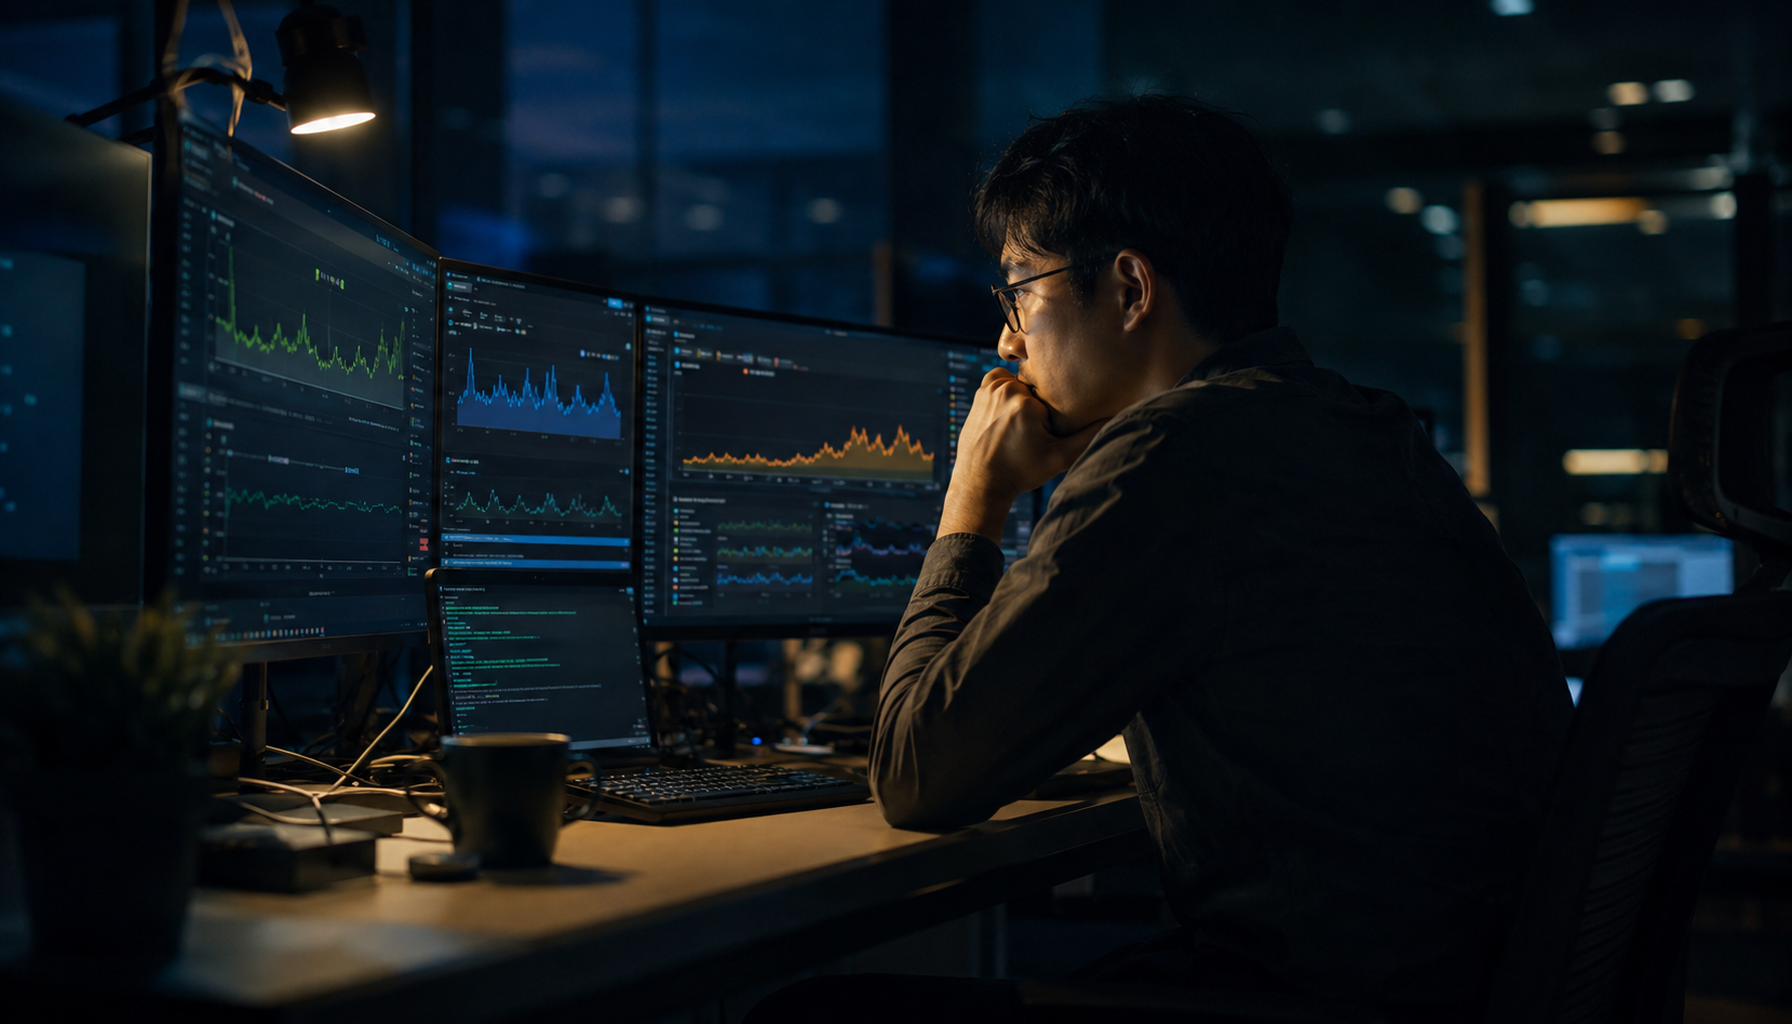
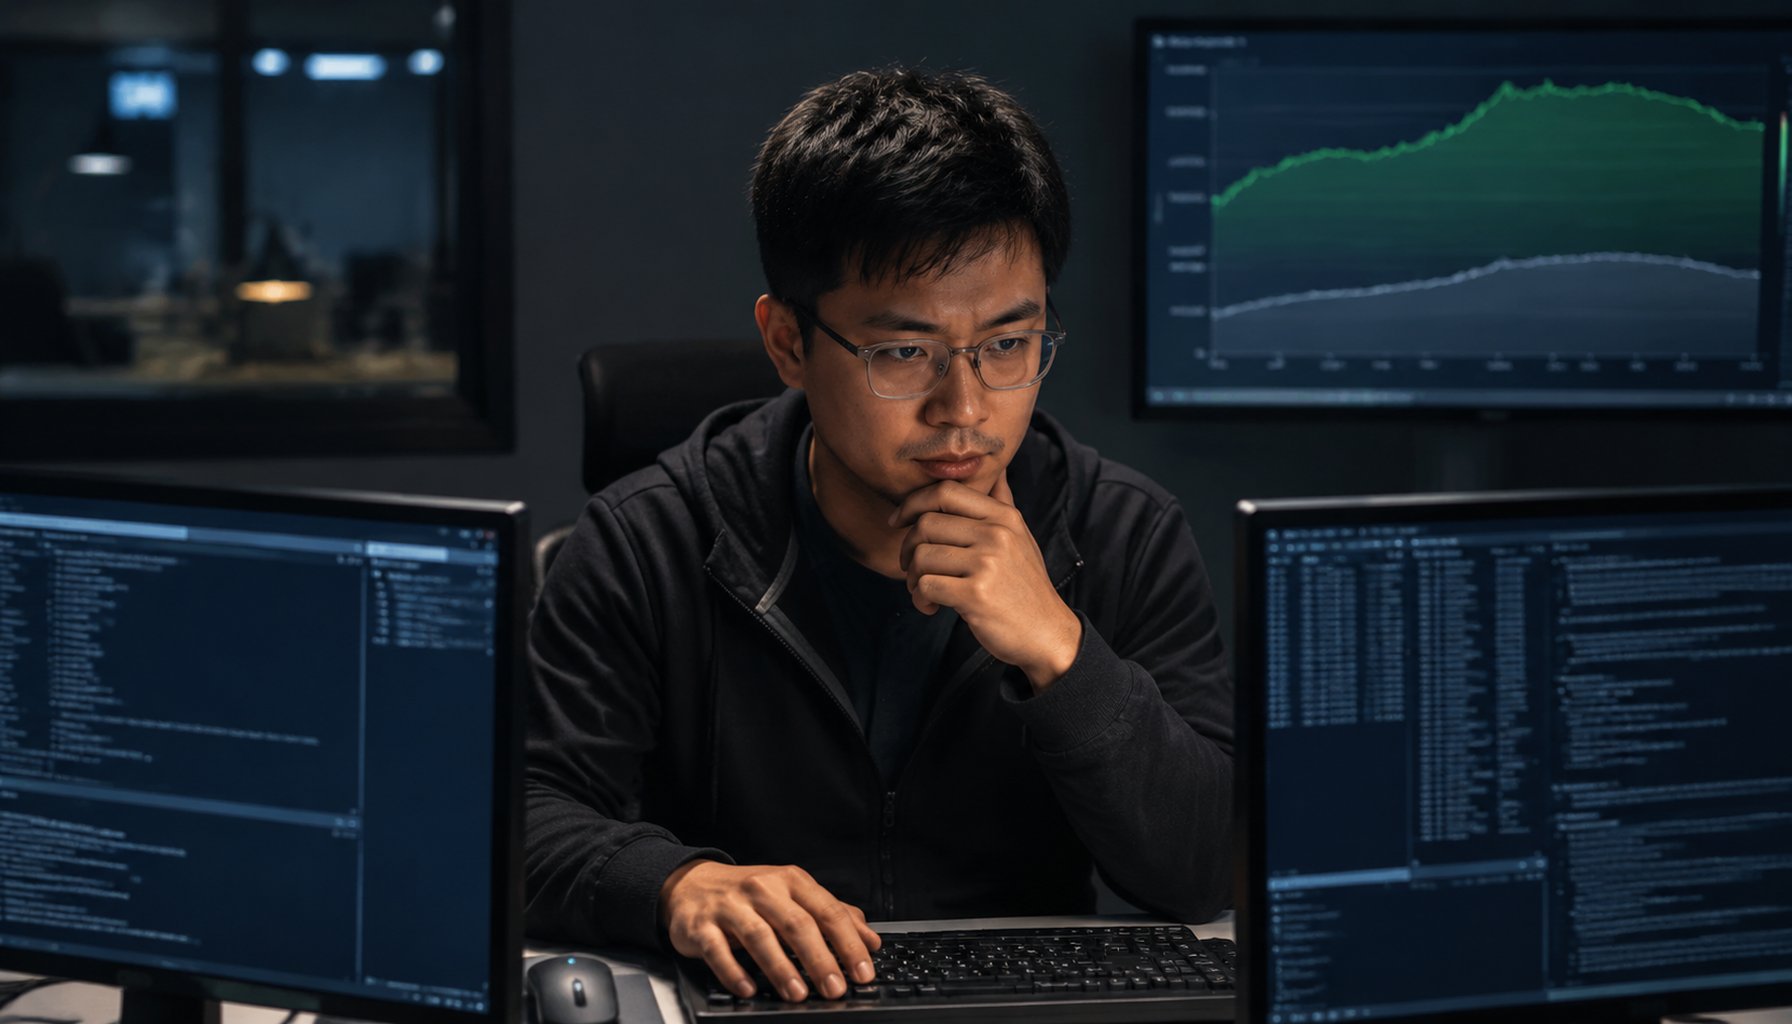
docs(blog): refine Green Tea GC decision

diff --git a/content/posts/go-green-tea-gc-decision.md b/content/posts/go-green-tea-gc-decision.md
@@ -1,98 +1,80 @@
 ---
 title: "同事甩 10–40% 截图让你升 Go 1.26？先量自己的 GC 占比"
-description: "官方 10–40% 说的是 GC 自己的开销，不是业务整体提速。先量自己的 GC CPU 占比，再决定跟版本、A/B 对比，还是临时关掉 Green Tea。"
+description: "官方 10–40% 说的是 GC 自身的 CPU 消耗。先量 GC 占总 CPU 的比例，再决定正常升级、做 A/B，还是临时关闭 Green Tea。"
 date: 2026-07-17T02:40:00+08:00
 draft: false
 author: "Zampo"
 tags: ["Go", "Go 1.26", "Green Tea GC", "GC", "性能", "工程决策"]
 categories: ["技术实战"]
-cover: "/images/go-green-tea-gc-decision/cover.svg"
+cover: "/images/go-green-tea-gc-decision/cover.png"
 toc: true
 ---
 
-值班群里有人甩了张截图。Go 官方说 Green Tea 能把 GC 开销砍 10–40%。
+值班群里有人贴了 Go 官方的截图：Green Tea 能把 GC 开销降 10–40%。
 
-有人已经在催：下周升 1.26，业务应该快一截。
+下一句往往是：那下周就升 1.26，服务应该能快不少。
 
-你盯着监控里 GC CPU 那条曲线——几个点的占比，不高不低——犹豫要不要为它改构建参数。
+我会先去看一条监控：GC CPU 在总 CPU 里占多少。没有这个数，截图再漂亮，也不能替你做性能判断。
 
-我最想纠正的误判就这一句：**版本说明写了 10–40%，所以升上就稳赚。**
+**网上的 10–40% 说的是 GC 自己的 CPU，不是你的服务；先量自己的 GC 占比，再决定要不要为 Green Tea 做 A/B。**
 
-## 10–40% 是 GC 自己的 CPU，不是你服务的
+## 先把 10–40% 的分母说清
 
-官方博客写得很清楚：对 GC 压力很重的真实程序，GC 开销大约降 10–40%。很多程序落在 10% 附近，少数能接近 40%。
+官方的说法有边界：对 GC 压力很重的真实程序，GC 开销预计可下降约 10–40%。多数程序接近 10%，少数可以接近 40%。这里减少的是垃圾回收本身消耗的 CPU 时间，不是 QPS 一定上涨，也不等于 p99 一定下降。
 
-注意限定词：说的是 GC 自己的开销，不是 QPS，不是 p99，不是你服务的整体 CPU。
+官方给过一个很实用的换算。如果一个程序有 10% 的 CPU 时间花在 GC，上述改善折算到总 CPU，大致是 1–4%。这个数字不小，但它和“服务快了 40%”是两回事。
 
-官方博客自己做过换算。一个程序如果大约 10% 的时间花在 GC 上，GC 成本再降 10–40%，整体 CPU 大概只动 1–4 个百分点。
+你的服务里 GC 若只占 5% 的总 CPU，即便 GC 自身少花 40%，总 CPU 的变化也很有限。反过来，GC 在 CPU 性能分析里长期占着明显一段，或者分配频繁、堆里有大量小的指针对象，Green Tea 才值得认真对比。
 
-所以同事转发那张截图的时候，你在心里要先乘一个数：你服务里 GC 占总 CPU 的比例。**广告百分比不直接等于你的收益，要先剪掉你 GC 那部分的蛋糕，再看 Green Tea 能切多少。**
+这里没有玄学，先看两个数：GC CPU 占比，以及 GC 自身能少花多少。前者很低时，升级后业务指标没有明显变化，本来就是可能出现的结果。
 
-你的服务 GC 只占 5%，就算 GC 侧砍掉 40%，总 CPU 也只是几个百分点的事。反过来，分配很猛、小对象很多、profile 里 GC 栈长期显眼——那 Green Tea 才更可能让你看见。
+## 默认升级，不等于默认立项
 
-**这是广告百分比的工程算术，不是「所有人立刻开」的口号。**
+Go 1.26 默认启用 Green Tea。要关掉，需要在构建时加 `GOEXPERIMENT=nogreenteagc`；Go 1.25 则相反，默认还是经典 GC，显式设置 `GOEXPERIMENT=greenteagc` 才会打开 Green Tea。
 
-## 升完无感，先别怀疑
+这是编译期开关。线上改一个环境变量不会把已经运行的二进制切到另一套 GC；想比较，就构建两份二进制。
 
-Go 1.26 起，Green Tea **默认启用**。构建时 `GOEXPERIMENT=nogreenteagc` 才能关掉。1.25 则相反：默认经典 GC，要显式 `GOEXPERIMENT=greenteagc` 才打开。
+官方也没有承诺所有程序都会受益。有些负载变化很小，甚至没有收益。单个内存页经常只扫描一个对象时，新路径未必划算。这种情况不需要把它解释成“功能没开上”。
 
-两边都是编译期开关，运行时切不了。想对比，得打两份二进制。
+DoltHub 在 Go 1.25 的实验开关下跑 sysbench，吞吐和 p50 延迟与经典 GC 基本持平。HydrAIDE 的一组百万对象创建压测里，作者报告 GC CPU 下降约 22%，整体运行时间下降约 5%。Go 的 issue #73581 还提到，tile38 这类指针关系很密集的堆，GC 开销可下降约 35%；稀疏、分散的树形结构，效果可能不明显，也可能小幅变差。
 
-官方也写得很直：有的负载几乎不受益，甚至完全不受益。单页上经常只扫到一个对象时，新扫描路径不一定划算。
+这些结果放在一起并不冲突。它们只是提醒我们：Green Tea 优化的是 GC，业务指标是否变化，取决于 GC 原来是不是主要消耗。
 
-社区两边的对照结果，正好在同一张图里。
+如果服务的瓶颈在磁盘、网络或下游 RPC，GC CPU 即使下降，p99 也未必会动。此时不该把“延迟没变”当成关闭 Green Tea 的理由，更不能把 GC 的局部改善写进业务提速目标。
 
-DoltHub 在 1.25 实验开关下跑 sysbench：吞吐和 p50 延迟跟经典 GC 基本一样。HydrAIDE 在 100 万对象创建压测里报告 GC CPU 降了大概 22%、整体运行时间降了大约 5%。issue #73581 里，tile38 这类指针密集的堆能看到约 35% 的 GC 开销下降；稀疏、打散的树形结构效果不明显，甚至小幅回退。
+## 要比较，先做一组小而干净的 A/B
 
-同一套 GC，两种体感，不矛盾。
+我不会先搭一套性能平台。对大多数服务，同样的负载、相同的 `GOMAXPROCS`、预热后的稳定阶段，已经足够做第一轮判断。
 
-业务侧无感时，别为实验位硬立项。GC 占比高时那一栏动了，才是它该发光的地方。
+主指标只有两类：
 
-还有一种更常见的「无感」：瓶颈在磁盘、网络、下游 RPC。GC CPU 真降了，用户延迟仍然纹丝不动。别因为业务线没动就关掉 Green Tea。瓶颈在线下的时候，GC CPU 降再多也不会体现在用户延迟上。GC 优化别写进业务 SLA。
+- GC CPU 占比：`runtime/metrics` 里的 `/cpu/classes/gc/total:cpu-seconds` 除以 `/cpu/classes/total:cpu-seconds`
+- 业务指标：QPS，以及你平时用于判断服务质量的 p50、p95、p99
 
-升完 1.26 如果看不出来业务变化，先确认你的二进制是默认编译的，然后查一下你的 GC 占比。无感是算术结果，不是故障信号。
-
-## 想证伪，两份二进制就够了
-
-不用先搭一套性能平台。
-
-同负载、预热后稳态，两样东西就够了：
-
-- **GC CPU 占比**（`runtime/metrics`：`/cpu/classes/gc/total:cpu-seconds` ÷ `/cpu/classes/total:cpu-seconds`）
-- **业务分位**（QPS + p50/p95/p99，跟你平常看的那一组走）
-
-Go 1.26，默认 vs 关闭：
+Go 1.26 下可以这样构建两份二进制：
 
 ```bash
 go build -o app-green ./cmd/yourapp
 GOEXPERIMENT=nogreenteagc go build -o app-classic ./cmd/yourapp
 
-# 确认实验位
 go version -m ./app-green | grep -i experiment || true
 go version -m ./app-classic | grep -i experiment || true
 ```
 
-Go 1.25 反过来：默认经典 GC，`GOEXPERIMENT=greenteagc` 才会开 Green Tea。
+Go 1.25 的方向反过来：经典 GC 是默认值，给 Green Tea 那份二进制加 `GOEXPERIMENT=greenteagc`。
 
-辅助可以再看 `GODEBUG=gctrace=1` 的 mark 时间和 `go tool pprof` 的 GC 栈。但主判断不要离开两项：GC 占比和业务延迟。
+`GODEBUG=gctrace=1` 里的标记时间、CPU 性能分析里的 GC 栈都可以辅助看，但它们替代不了前面两项。GC 内部有变化，不等于用户请求就更快；业务 p99 变了，也不能只归因给 GC。
 
-GC 占比下降，业务持平或更好——保持默认。
-GC 占比下降，业务几乎不动——仍然可以开，但别写进 OKR 说「提速 20%」。
-GC 占比和业务都在噪声范围内——跟版本就行，不用做开关平台。
-明确变差——临时 `nogreenteagc` 止血，同时去 <https://go.dev/issue/new> 提 issue。
+我会按结果往下走：GC 占比下降、业务指标持平或更好，就保持默认；GC 占比下降但业务侧没有明显变化，也可以继续使用，只是别把它写成性能项目的战果；两边都在正常波动范围内，就跟着版本升级，不为这个开关单独维护一条链路。
 
-官方已经写明：1.26 的退出开关预计在 Go 1.27 移除。关掉是排查通道，不是团队长期标准。
+只有出现明确回退，才临时用 `nogreenteagc` 关闭，并把可复现的负载和性能分析结果带去提 issue。Go 1.26 的发布说明已经写明，这个退出开关预计会在 1.27 移除，它适合排查，不适合成为团队长期配置。
 
-## 我怎么决定
+## 我的选择其实很简单
 
-先排除另一类题：OOM、泄漏、拧 `GOGC`。那是旧文的线，本篇不重做。
+不知道 GC 占比时，我先补 metrics 或 pprof。没有基线，“提升”只是感觉。
 
-不知道 GC 占比？先 metrics / pprof，再谈开关。没有基线，所有「提升」都是感觉。
+GC 占比很低，业务也不受 CPU 限制时，我会正常升到 1.26，不会为了 Green Tea 再开一个专项。还在 1.25 的服务，也不会为了追一个截图主动把实验 GC 推进生产。
 
-GC 占比很低，业务也不吃 CPU？1.26 直接跟版本，别改 `GOEXPERIMENT`。1.25 默认别开实验，除非你想采一份对照。
+GC 占比高，或者升级后确实出现值得解释的变化时，我才做同负载 A/B，同时看 GC CPU 和业务延迟分位。只看其中一个，结论很容易偏。
 
-GC 占比清晰可见？同负载 A/B。看 GC 占比，也看业务分位。只看一个，容易误判。
-
-A/B 明确回退？临时 `nogreenteagc` + 提 issue。不要默默把关闭开关写进 Dockerfile 当永久配置。
-
-你下次再看到那张 10–40% 的截图，先问自己一个问题：**我服务里，GC 到底占多少？**
+下次有人把 10–40% 的截图发到群里，先回到你的监控上：**GC 到底占了总 CPU 的多少？**